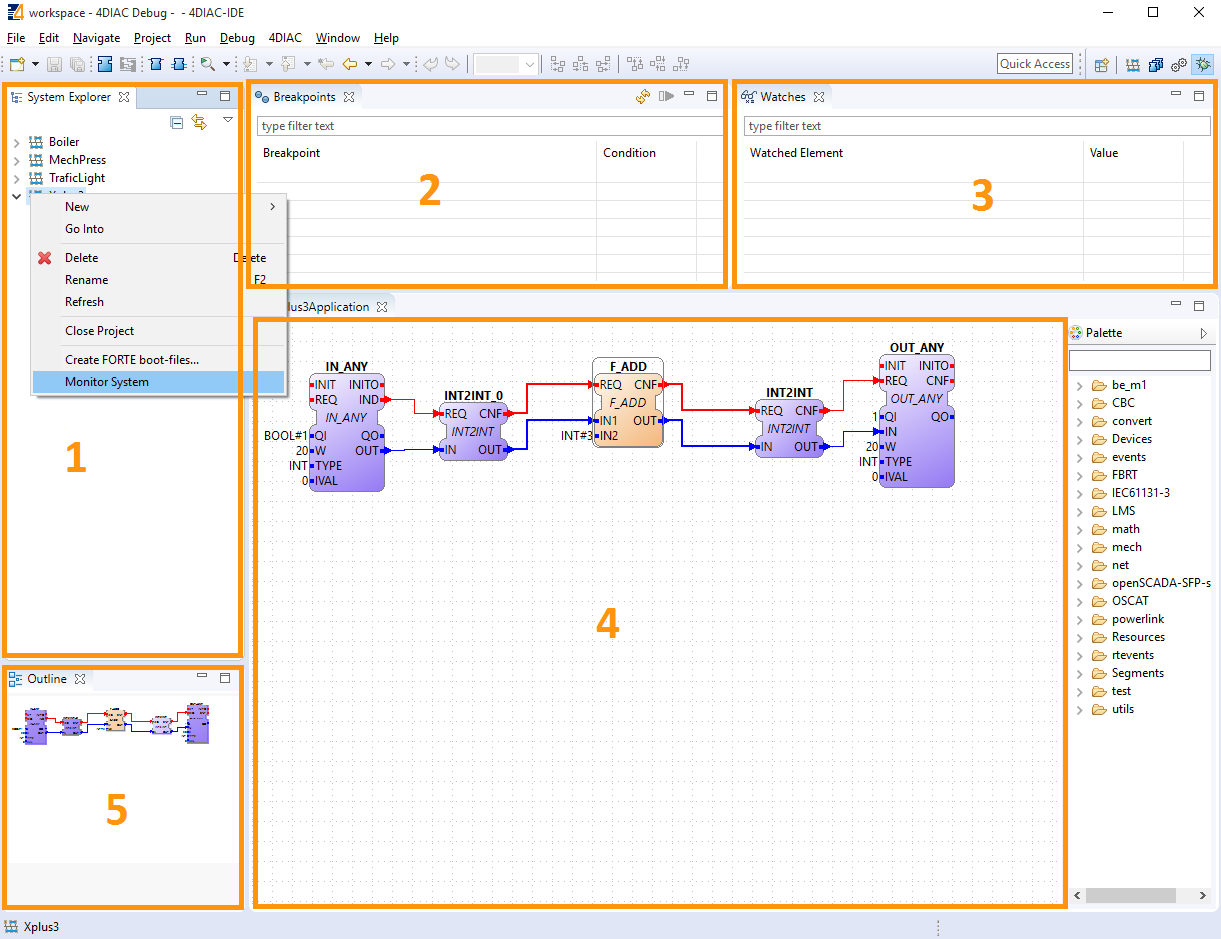
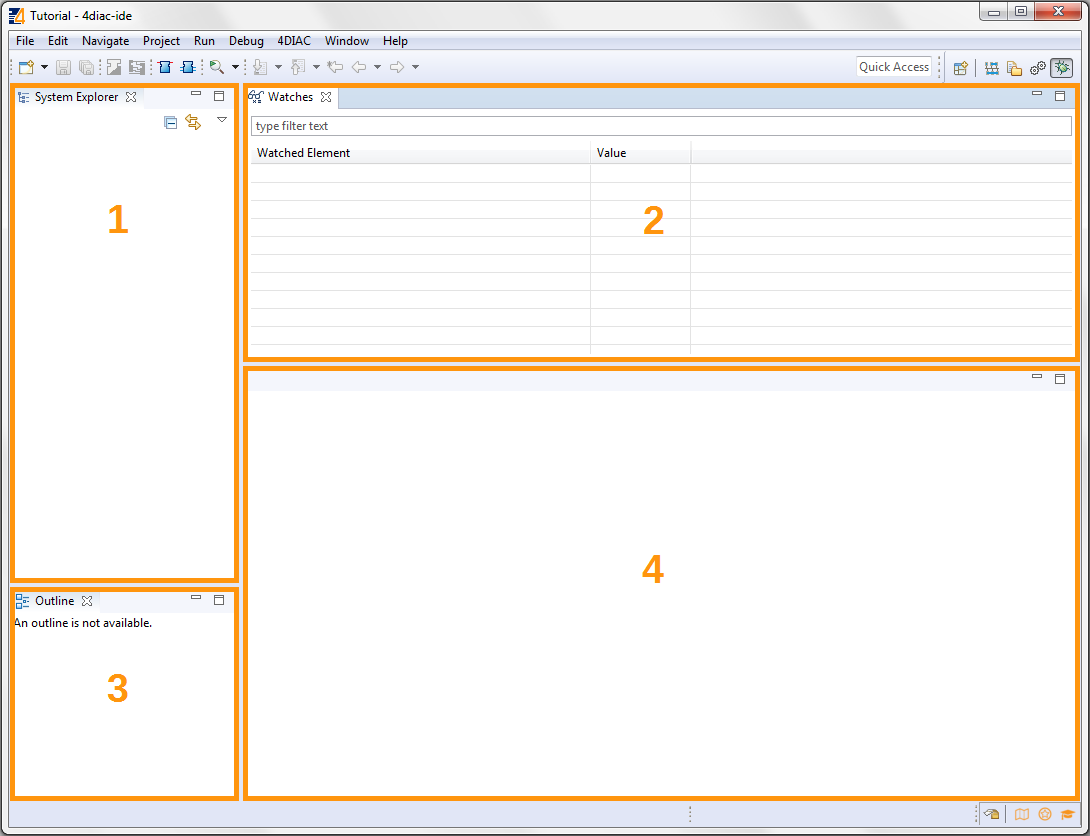
[539344] Update of tutorial step 0
Reworked most of the images, added section of workspace chooser and
welcome screen and removed the chapter of the type management
perspective witch is not existing any more.

Bug: https://bugs.eclipse.org/bugs/show_bug.cgi?id=539344

diff --git a/plugins/org.eclipse.fordiac.ide/html/4diacIDE/overview.html b/plugins/org.eclipse.fordiac.ide/html/4diacIDE/overview.html
@@ -1,7 +1,8 @@
 <!DOCTYPE html>
 <!--
  Copyright (c) 2010 - 2015 Profactor GmbH, TU Wien ACIN, fortiss GmbH
-  
+               2018 Andrea Zoitl
+                 
  All rights reserved. This program and the accompanying materials
  are made available under the terms of the Eclipse Public License v1.0
  which accompanies this distribution, and is available at
@@ -11,6 +12,7 @@
    Gerhard Ebenhofer, Thomas Strasser, Monika Wenger, Alois Zoitl, 
    Gerd Kainz, Carolyn Oates, Jose Cabral 
      - initial API and implementation and/or initial documentation
+   Andrea Zoitl - cleaning up tutorials for 1.10 realese
 -->
 
 <html lang="en">
@@ -21,9 +23,9 @@
 </head>
 <body>
 
-<h1 id="topOfPage">Step 0 - 4DIAC Overview</h1>
+<h1 id="topOfPage">Step 0 - 4diac-IDE Overview</h1>
 
-<p>This page is part of a guide that gives a walkthrough over the major 4DIAC features.</p>
+<p>This page is part of a guide that gives a walkthrough over the major 4diac-IDE features.</p>
 
     <ol start="0">
       <li>Overview (YOU ARE HERE!)</li>
@@ -35,10 +37,28 @@
       <li><a href="./advancedFeatures.html">Advanced Features [optional]</a></li>
     </ol>
 
-<p>In this Step 0, it's presented an overview about Elements, Perspectives and Properties of 4DIAC that you need to know for a smoother use of it.</p>
+<p>In this Step 0, it's presented an overview about Elements, Perspectives and Properties of 4diac-IDE that you need to know for a smoother use of it.</p>
 
-<h2 id="elements">4DIAC Elements</h2>
-<p>Since 4DIAC is compliant to the IEC 61499 standard, 4DIAC-IDE provides the standard's elements for work (you can check <a href="../before4DIAC/iec61499.html#IEC61499" target="_blank">here</a> to rememeber the elements):</p>
+<h2 id="startingUp">Starting up 4diac-IDE</h2>
+
+<p>To start the tutorial open 4diac-IDE. 
+You will be prompted to select or create your workspace. 
+For this tutorial we name our workspace "Tutorial".
+A workspace is a folder on your computer to store one or more 4diac projects.</p>
+
+<p><img src="./img/workspaceSelection.png" alt="workspace selection"/></p>
+
+<p>After you created a workspace 4diac-IDE presents its welcome screen. 
+Here you can get an overview about 4diac, create a new project, import an existing project or you can read more about the chapters of the tutorial.</p>
+
+<p><img src="./img/welcomeScreen.png" alt="welcome screen of 4diac-IDE"/></p>
+
+<p>At first it's best to unselect the checkbox so you can start up 4diac faster the next time.</p>
+
+<p>Next you klick at the <i>workbench</i> button. This brings you to the main screen of 4diac-IDE.</p>
+
+<h2 id="elements">4diac-IDE Elements</h2>
+<p>Since 4diac is compliant to the IEC 61499 standard, 4diac-IDE provides the standard's elements for work (you can check <a href="../before4DIAC/iec61499.html#IEC61499" target="_blank">here</a> to rememeber the elements):</p>
 <ul>
 	<li><img src="./img/system.png" alt="System" class="inlineImg" /> <span class="inlineTitle">System</span>: contains the <span class="view4diac">System Configuration</span> and its corresponding <span class="element61499">Applications</span></li>
 	<li><img src="./img/app16.png" alt="Application" class="inlineImg"/> <span class="inlineTitle">Application</span>: contains the desired application in terms of a FB network</li>
@@ -53,20 +73,20 @@
 	<li><img src="./img/adapter.png" alt="Adapter" class="inlineImg"/> <span class="element61499">Adapter</span>: combines a set of input/output events and data to one connection, at the one hand it simplifies the IEC 61499 <span class="element61499">Application</span> and on the other hand it better decouples <span class="element61499">Application</span> parts providing an interface concept allowing to adopt the polymorphic concept of object oriented programming</li>
 </ul>
 
-<h2 id="perspectives">4DIAC Perspectives</h2>
+<h2 id="perspectives">4diac-IDE Perspectives</h2>
 
-<p>The 4DIAC-IDE provides four perspectives, which can be added by the <img src="./img/perspective/new_persp.gif" alt="add perspective" class="inlineImg"/> button in the upper right corner:</p>
+<p>The 4diac-IDE provides three perspectives, which can be added by the <img src="./img/perspective/new_persp.gif" alt="add perspective" class="inlineImg"/> button in the upper right corner:</p>
+<img src="./img/perspectiveSelection.png" alt="perspective selection"/>
 <ol>
-	<li><span class="inlineTitle">System </span>perspective is used to configure everything regarding your system. It includes:
+	<li><span class="inlineTitle"> <img src="./img/system.png" alt="System Perspective Button" class="inlineImg"/> System </span>perspective is used to configure everything regarding your system. It includes:
 		<ul>
 		<li><span class="inlineTitle">System Manager</span> which allows to create and edit your System and Applications. 
 		<li><span class="inlineTitle">System Configuration</span>, which allows to manage <span class="element61499">Devices</span>, <span class="element61499">Resources</span> and <span class="element61499">Segments</span> according to IEC 61499. The <span class="element61499">Resources</span> are used for <span class="element61499">Application</span> mapping and insertion of communication function blocks to other <span class="element61499">Devices</span> and <span class="element61499">Resources</span>.
 		</li>
-		<li><span class="inlineTitle">Applications</span> according to the IEC 61499 <span class="element61499">Application</span> Model and found under 4DIAC-IDE System Model</li>
+		<li><span class="inlineTitle">Applications</span> according to the IEC 61499 <span class="element61499">Application</span> Model and found under 4diac-IDE System Model</li>
 		</ul>
-	<li><span class="inlineTitle">Type Management </span> perspective, which allows to manage the available function block types</li>
-	<li><span class="inlineTitle">Deployment </span> perspective where the <span class="element61499">Applications</span> are launched and tested</li>
-	<li><span class="inlineTitle">4diac Debug </span> perspective where <span class="element61499">Applications</span> can be monitored</li>
+	<li><span class="inlineTitle"> <img src="./img/perspective/deploymentButton.gif" alt="Deployment Perspective Button" class="inlineImg"/> Deployment </span> perspective where the <span class="element61499">Applications</span> are launched and tested</li>
+	<li><span class="inlineTitle"> <img src="./img/perspective/debugButton.gif" alt="Debug Perspective Button" class="inlineImg"/> 4diac Debug </span> perspective where <span class="element61499">Applications</span> can be monitored</li>
 </ol>
 
 <h3 id="systemPerspective">System Perspective</h3>
@@ -74,22 +94,10 @@
 <ol>
 	<li><span class="inlineTitle">System Management area</span>, which is used for the management of IEC 61499 compliant applications and to configure <span class="element61499">Devices</span> and <span class="element61499">Resources</span>. In a tab next to it, there's the <span class="IDEelement">Type Navigator</span>, which lists the available function block library for every <span class="element61499">System</span> as well as the default library.</li> 
 	<li><span class="inlineTitle">Editor area</span>, which contains the <span class="IDEelement">Application editor</span> for modeling of control applications, the <span class="IDEelement">System editor</span> for modeling the <span class="element61499">System</span> configuration, and the <span class="IDEelement">Device</span> and <span class="IDEelement">Resource editor</span> for modeling the <span class="element61499">Resource</span> configuration</li>
-	<li><span class="inlineTitle">Palette</span>: shows the elements that you can add to the editor.</li>
 	<li><span class="inlineTitle">Outline</span> of <span class="element61499">Applications</span>, <span class="element61499">System</span> configurations, <span class="element61499">Devices</span>, and <span class="element61499">Resources</span></li>
 	<li><span class="inlineTitle">Property view</span>, which allows the parameterization of function block instances, <span class="element61499">Devices</span>, and <span class="element61499">Resources</span></li>
 </ol>
 <p><img src="./img/perspective/systemPerspective.png" alt="System Perspective Button"/></p>
-
-
-<h3 id="typeManagementPerspective">Type Management Perspective</h3>
-<p>In the right upper corner the perspective can be changed. The <span class="view4diac">Type Management</span> perspective is reached by the <img src="./img/perspective/typeButton.png" alt="Type Management Perspective Button" class="inlineImg"/> button. The <span class="view4diac">Type Management</span> perspective is divided into the following three areas.</p>
-<ul>
-	<li>Type Navigator for the management of different type libraries, tool and project specific ones as well as the management of IEC 61499 element types</li> 
-	<li>Type Editor for the modification of IEC 61499 element types, like Basic, Composite, and
-Service Interface Function Block Types</li>
-	<li>Outline of FB types</li>
-</ul>
-<p><img src="./img/perspective/typeManagementPerspective.png" alt="Type Management Perspective Button"/></p>
 
 <h3 id="deploymentPerspective">Deployment Perspective</h3>
 <p>In the right upper corner the perspective can be changed. The <span class="view4diac">Deployment perspective</span> is reached by the <img src="./img/perspective/deploymentButton.gif" alt="Deployment Perspective Button" class="inlineImg"/> button. The <span class="view4diac">Deployment Management</span> perspective is divided into the following four areas.</p>
@@ -106,20 +114,24 @@ Service Interface Function Block Types</li>
 <ol>
 	<li>System selection where Systems can be marked for monitoring with right click and choosing <span class="menu4diac">Monitor System</span></li> 
 	<li>Watches view which allow to watch the actual values of the variables you marked for watching</li>
-	<li>Application editor which shows your <span class="element61499">Application</span> and highlights the variables marked for watching</li>
 	<li>Outline</li>
+	<li>Application editor which shows your <span class="element61499">Application</span> and highlights the variables marked for watching</li>
 </ol>
 <p><img src="./img/perspective/debugPerspective.png" alt="Debug Perspective Button"/></p>
 
-<h2 id="properties">4diac-IDE Properties</h2>
-
-<h3 id="preferences">Preferences</h3>
-
-<p>Before starting with the engineering process of IEC 61499 <span class="element61499">Applications</span>, you should set the preferences for the 4DIAC-IDE under <span class="menu4diac">Window &rarr; Preferences &rarr; 4DIAC</span>. There are different preference pages where various parameter settings for the 4DIAC-IDE can be made, like different colors, connection routers or the location of the FORTE executable. Please set the location within <span class="menu4diac">FBRT Preferences</span> and <span class="menu4diac">FORTE Preferences</span> if you want to start FBDK or FORTE within the Deployment perspective of 4DIAC-IDE. For FBRT specify the <span class="fileLocation">path/fbrt.jar</span> and for FORTE <span class="fileLocation">path/forte.exe</span>.</p> 
-
+<h2 id="preferences">4diac-IDE Preferences</h2>
+<p>Before starting with the engineering process of IEC 61499 <span class="element61499">Applications</span>, you should set the preferences for the 4diac-IDE under <span class="menu4diac">Window &rarr; Preferences &rarr; 4DIAC</span>.</p> 
+<p>Later in <i>Step 1 - Use 4diac-IDE locally</i> you learn more about the preferences. For now it’s good to know there are different preference pages where various parameter settings for the 4diac-IDE can be made, like different colors or connection routers.
+   In order to use the Runtime Launcher of the <a href="#deploymentPerspective">deployment perspective</a> the location of the run executable files must be set in the properties. Currently 2 runtime envirements are supported.</p>
+<ol>
+	<li><a href="http://www.eclipse.org/4diac/en_rte.php" >4diac Forte</a>: <span class="fileLocation">path/forte.exe</span></li>
+    <li><a href="https://www.holobloc.com/">Holobloc’s FBRT</a>: <span class="fileLocation">path/fbrt.jar</span></li>
+</ol>
+ 
 <img src="./img/properties/4DIACpreferences.png" alt="4DIAC-IDE Preferences"/>
 
-<h3 id="toolbar">Toolbar</h3>
+<!------------------------------------------------------------------------------------------------>
+<h2 id="toolbar">Toolbar</h2>
 <p>Selecting an element (e.g. <span class="element61499">Systems</span>, <span class="element61499">Devices</span>, <span class="element61499">Resources</span>, <span class="element61499">Applications</span>, <span class="element61499">Function Blocks</span>, ...) and pressing the right mouse button opens the context menu with several menus to manipulate the specific element. The following general toolbar items are provided:</p>
 
 <ul>
@@ -130,15 +142,15 @@ Service Interface Function Block Types</li>
 	<li><img src="./img/properties/undoredo.png" alt="Undo/Redo Icon" class="inlineImg"/> provides undo and/or redo of last changes</li>
 	<li><img src="./img/properties/zoom.png" alt="Zoom Functionality" class="inlineImg"/> provides zoom functionality in the toolbar or the menu entries in the context menu of an editor but also by pressing <span class="button4diac">Ctrl</span> and scrolling the mouse wheel</li>
 	<li>Function Block instances and <span class="element61499">Devices</span> respectively can be deleted using the <span class="button4diac">Del</span> key or the context menu entry Delete.</li>
-	<li>Instance names of Function Blocks, <span class="element61499">Resources</span> or <span class="element61499">Devices</span> can be changed by double click that enables the instance name field to be editable. It is also possible to change the instance name in the Properties View at the bottom of the window.
+	<li>Instance names of Function Blocks, <span class="element61499">Resources</span> or <span class="element61499">Devices</span> can be changed by double click that enables the instance name field to be editable. It is also possible to change the instance name in the Properties View at the bottom of the window.<br/>
 	<img src="./img/properties/instanceName.png" alt="change instance name by double click or property view"/></li> 
 </ul>
 
 <h1>Where to go from here?</h1>
 
-<p>Now that you had an overlook about the major things about 4DIAC, you can start using it: </p>
+<p>Now that you had an overlook about the major things about 4diac-IDE, you can start using it: </p>
 
-<p><a href="./use4diacLocally.html">Step 1 - Use 4DIAC-IDE locally</a></p>
+<p><a href="./use4diacLocally.html">Step 1 - Use 4diac-IDE locally</a></p>
 
 <p>If you want to go back to the Start Here page, we leave you here a fast access</p>
 
